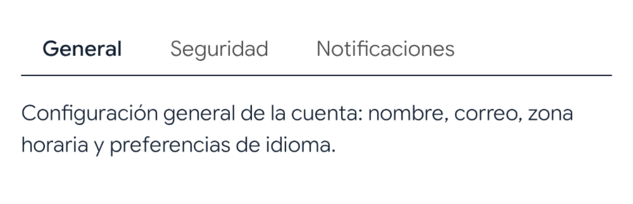
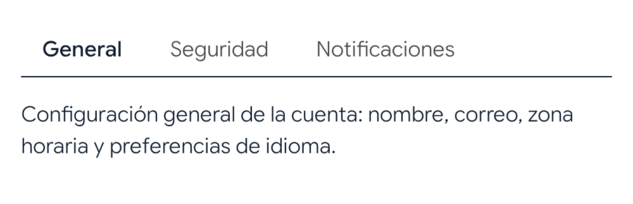
fix(native): el disparador de Tabs en Android, con el line-height 1,15 de la web
El `<button>` de React hereda el `line-height: 1.15` de `normalize.css`; SwiftUI
ya lo copiaba y Compose usaba `line-height.tight` (1,1). Ahora las dos
plataformas copian 1,15 (no hay token `tabs.trigger-line-height`). Capturas de
Paparazzi de Tabs regrabadas y parejas Android rehechas; la ficha lo anota.

Claude-Session: https://claude.ai/code/session_01TgFyWwWQRDkhxQPB1RhMMC

diff --git a/native/android/brand/src/main/kotlin/com/studiolxd/brand/components/tabs/BrandTabs.kt b/native/android/brand/src/main/kotlin/com/studiolxd/brand/components/tabs/BrandTabs.kt
@@ -52,7 +52,6 @@ import com.studiolxd.brand.support.brandTextStyle
 import com.studiolxd.brand.support.collectBrandInteractionState
 import com.studiolxd.brand.support.rememberReduceMotion
 import com.studiolxd.brand.tokens.BrandTabsTokens as T
-import com.studiolxd.brand.tokens.BrandLineHeight
 
 /** `TabsList` `variant`: `underline` (una línea bajo la pestaña activa) o `pill` (relleno en la activa). */
 enum class TabsVariant(val value: String) {
@@ -277,15 +276,20 @@ internal fun <V> BrandTabSurface(
             .padding(horizontal = T.triggerPaddingInline, vertical = T.triggerPaddingBlock),
         contentAlignment = Alignment.Center,
     ) {
-        // El `<button>` de la web no hereda el interlineado del cuerpo: toma el `line-height: 1.15` de `normalize.css`, que no
-        // es un token; el peldaño más cercano es `line-height.tight` (1,1: 0,8 dp menos por pestaña a 16 sp). La caja de
-        // línea de CSS la pone `BrandBasicText`.
+        // La caja de línea de CSS la pone `BrandBasicText`, con el interlineado del disparador de la web ([TriggerLineHeight]).
         BrandBasicText(
             tab.label,
-            style = brandTextStyle(T.triggerFontSize, weight, BrandLineHeight.tight, color = ink)
+            style = brandTextStyle(T.triggerFontSize, weight, TriggerLineHeight, color = ink)
                 .copy(textAlign = if (vertical) TextAlign.Center else TextAlign.Unspecified),
             maxLines = 1,
             overflow = TextOverflow.Ellipsis,
         )
     }
 }
+
+/**
+ * El `line-height` del disparador en la web: es un `<button>` y `.tabs__trigger` no lo fija, así que manda el
+ * `line-height: 1.15` que `normalize.css` pone a los controles de formulario. No hay token (`tabs.trigger-line-height` no
+ * existe): se copia el valor, como en SwiftUI, y se anota en la ficha.
+ */
+private const val TriggerLineHeight = 1.15f
